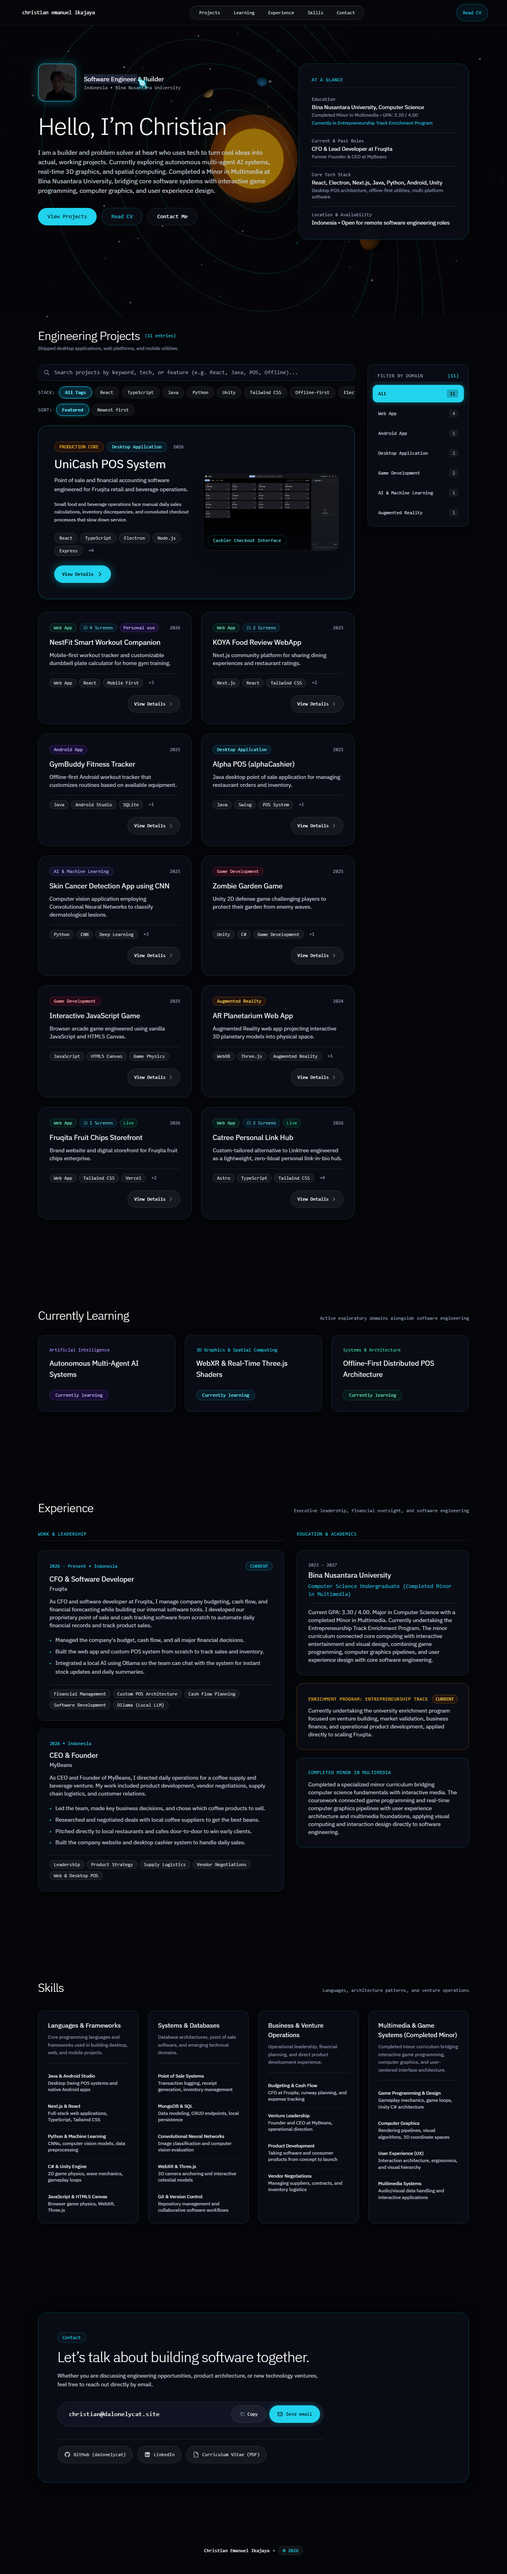
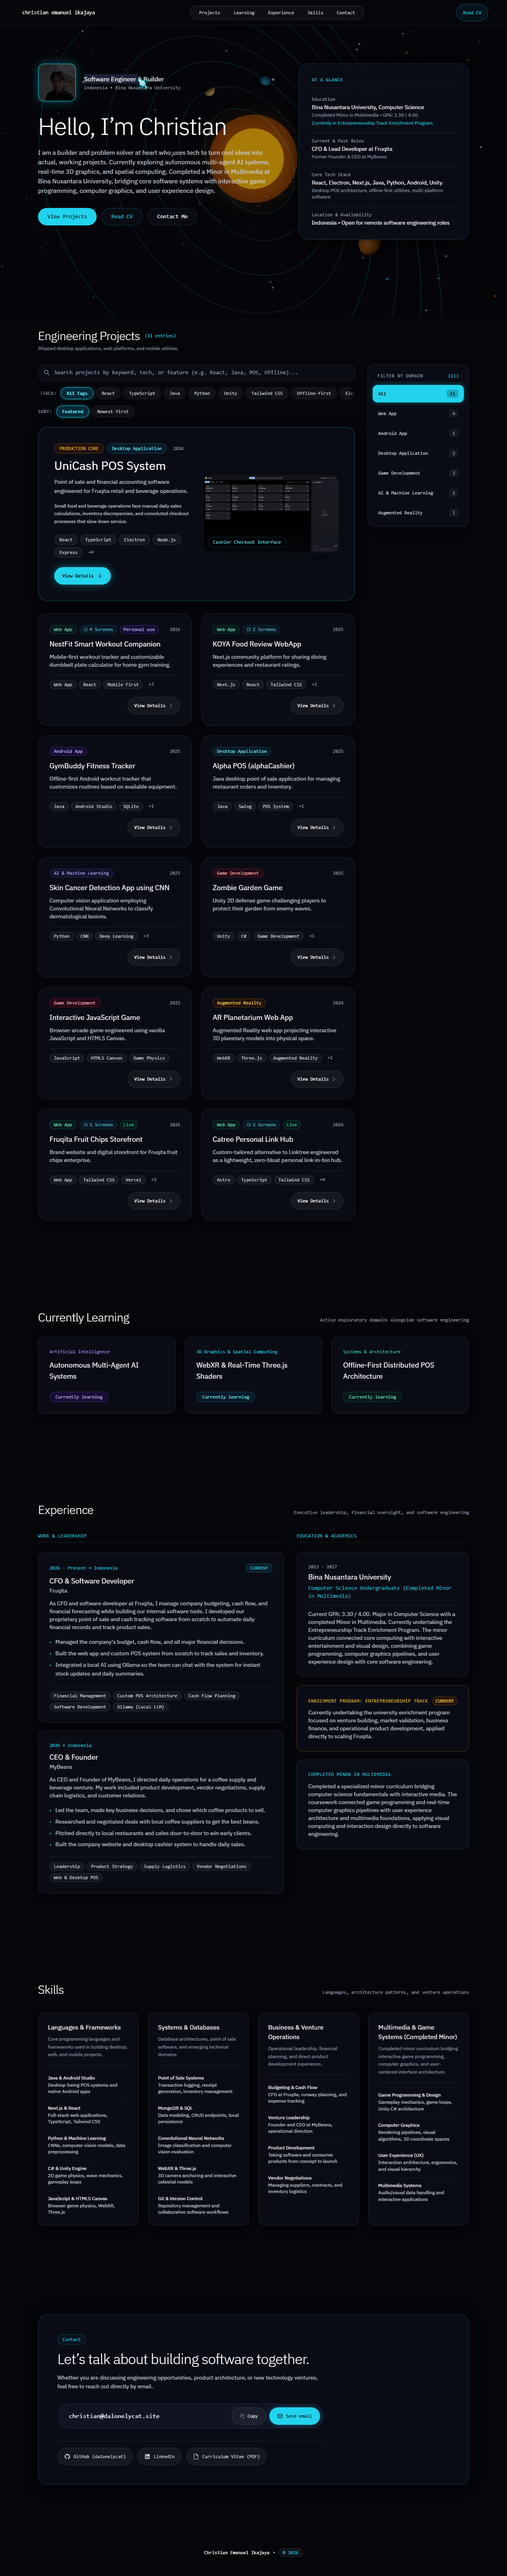
fix: hide horizontal tag scrollbar with edge fade masks and restore 3D solar system background

diff --git a/src/components/SolarSystemBackground.tsx b/src/components/SolarSystemBackground.tsx
@@ -47,9 +47,9 @@ export function SolarSystemBackground() {
     const scene = new THREE.Scene();
     const camera = new THREE.PerspectiveCamera(
       48,
-      window.innerWidth / window.innerHeight,
+      window.innerWidth / Math.max(window.innerHeight, 1),
       0.1,
-      250
+      1000
     );
 
     // Spherical Orbit Coordinates locked to the Sun at (0, 0, 0)
@@ -64,16 +64,21 @@ export function SolarSystemBackground() {
     );
     camera.lookAt(0, 0, 0);
 
-    const renderer = new THREE.WebGLRenderer({
-      alpha: true,
-      antialias: !isMobile,
-      powerPreference: "high-performance",
-    });
-
-    renderer.setSize(window.innerWidth, window.innerHeight);
-    renderer.setPixelRatio(Math.min(window.devicePixelRatio, isMobile ? 1 : 1.5));
-    renderer.setClearColor(0x000000, 0);
-    container.appendChild(renderer.domElement);
+    let renderer: THREE.WebGLRenderer;
+    try {
+      renderer = new THREE.WebGLRenderer({
+        alpha: true,
+        antialias: !isMobile,
+        powerPreference: "high-performance",
+      });
+      renderer.setSize(window.innerWidth, window.innerHeight);
+      renderer.setPixelRatio(Math.min(window.devicePixelRatio, isMobile ? 1 : 1.5));
+      renderer.setClearColor(0x000000, 0);
+      container.appendChild(renderer.domElement);
+    } catch (e) {
+      console.warn("WebGL initialization failed:", e);
+      return;
+    }
 
     // Disposables tracking for robust cleanup
     const disposables: { dispose: () => void }[] = [];
@@ -552,21 +557,24 @@ export function SolarSystemBackground() {
 
     // Animation Loop: Isometric planetary revolution with interactive orbiting camera
     let animationFrameId: number;
-    const clock = new THREE.Clock();
+    let lastTimestamp = performance.now();
+    let elapsed = 0;
 
     const animate = () => {
       animationFrameId = requestAnimationFrame(animate);
       if (!isVisible) return;
 
-      const delta = clock.getDelta();
-      const elapsed = clock.getElapsedTime();
+      const now = performance.now();
+      const delta = Math.min((now - lastTimestamp) / 1000, 0.1);
+      lastTimestamp = now;
+      elapsed += delta;
 
       // Update Starfield GPU Twinkling
       starShaderMat.uniforms.uTime.value = elapsed;
 
       // Update Camera Spherical Orbit (Camera strictly locked to orbiting the Sun at (0, 0, 0))
       targetLookAt.set(0, 0, 0);
-      currentLookAt.lerp(targetLookAt, delta * 3.0);
+      currentLookAt.lerp(targetLookAt, Math.min(1, delta * 3.0));
 
       if (!isDragging) {
         if (Math.abs(velocityTheta) > 0.00005 || Math.abs(velocityPhi) > 0.00005) {
@@ -583,7 +591,7 @@ export function SolarSystemBackground() {
       const targetCamY = orbitRadius * Math.cos(orbitPhi);
       const targetCamZ = orbitRadius * Math.sin(orbitPhi) * Math.cos(orbitTheta);
 
-      camera.position.lerp(tempTargetPos.set(targetCamX, targetCamY, targetCamZ), delta * 2.8);
+      camera.position.lerp(tempTargetPos.set(targetCamX, targetCamY, targetCamZ), Math.min(1, delta * 2.8));
       camera.lookAt(currentLookAt);
 
       // Starfield warp speed acceleration
@@ -698,12 +706,14 @@ export function SolarSystemBackground() {
       window.removeEventListener("rocket-hyperdrive-start", handleWarpStart);
       window.removeEventListener("rocket-hyperdrive-end", handleWarpEnd);
 
-      if (container && renderer.domElement) {
-        container.removeChild(renderer.domElement);
+      if (renderer) {
+        if (container && renderer.domElement && container.contains(renderer.domElement)) {
+          container.removeChild(renderer.domElement);
+        }
+        renderer.dispose();
       }
 
       disposables.forEach((item) => item.dispose());
-      renderer.dispose();
     };
   }, []);
 
@@ -712,8 +722,8 @@ export function SolarSystemBackground() {
       aria-hidden="true"
       className="fixed inset-0 pointer-events-none z-0 overflow-hidden no-print"
     >
-      {/* 3D Isometric Solar System Canvas (High visibility 90% opacity) */}
-      <div ref={containerRef} className="absolute inset-0 opacity-90" />
+      {/* 3D Isometric Solar System Canvas (High visibility 100% opacity) */}
+      <div ref={containerRef} className="absolute inset-0 opacity-100" />
 
       {/* Subtle depth vignette wash preserving text contrast without hiding 3D space */}
       <div className="absolute inset-0 bg-[#05060A]/35 pointer-events-none" />

diff --git a/src/lib/liteMode.ts b/src/lib/liteMode.ts
@@ -2,19 +2,14 @@
 
 import { useEffect, useState } from "react";
 
-interface NavigatorWithHints extends Navigator {
-  deviceMemory?: number;
-  connection?: { saveData?: boolean };
-}
-
 /**
  * Decides whether the heavy visuals (WebGL solar system and rocket plume canvas)
- * should be skipped. Conservative on purpose so normal laptops keep the full experience.
+ * should be skipped.
  *
- * Lite mode turns on for: reduced-motion preference, Data Saver, very low
- * memory (2 GB or less) or very few CPU cores (2 or less).
+ * Reduced-motion is handled natively inside SolarSystemBackground to keep the
+ * celestial visuals visible in a calm, static state rather than a blank screen.
  *
- * `?lite=1` forces it on and `?lite=0` forces it off, which is handy for testing.
+ * `?lite=1` forces lite mode on and `?lite=0` forces it off.
  */
 export function detectLiteMode(): boolean {
   if (typeof window === "undefined") return false;
@@ -23,19 +18,12 @@ export function detectLiteMode(): boolean {
   if (override === "1") return true;
   if (override === "0") return false;
 
-  if (window.matchMedia("(prefers-reduced-motion: reduce)").matches) return true;
-
-  const nav = navigator as NavigatorWithHints;
-  if (nav.connection?.saveData) return true;
-  if (typeof nav.deviceMemory === "number" && nav.deviceMemory <= 2) return true;
-  if (typeof nav.hardwareConcurrency === "number" && nav.hardwareConcurrency <= 2) return true;
-
   return false;
 }
 
-/** Returns null until the client has checked, so heavy scenes never mount and then unmount. */
-export function useLiteMode(): boolean | null {
-  const [lite, setLite] = useState<boolean | null>(null);
+/** Initializes to false so WebGL and space visuals mount immediately without blank delay. */
+export function useLiteMode(): boolean {
+  const [lite, setLite] = useState<boolean>(false);
 
   useEffect(() => {
     setLite(detectLiteMode());

diff --git a/src/app/globals.css b/src/app/globals.css
@@ -53,6 +53,7 @@ body {
 /* Deep space restrained scrollbar */
 ::-webkit-scrollbar {
   width: 6px;
+  height: 4px;
 }
 ::-webkit-scrollbar-track {
   background: #05060A;
@@ -63,6 +64,23 @@ body {
 }
 ::-webkit-scrollbar-thumb:hover {
   background: #00F0FF;
+}
+
+/* Cross-browser scrollbar suppression utility */
+.no-scrollbar::-webkit-scrollbar {
+  display: none !important;
+  width: 0 !important;
+  height: 0 !important;
+}
+.no-scrollbar {
+  -ms-overflow-style: none !important;
+  scrollbar-width: none !important;
+}
+
+/* Horizontal scroll edge fade mask for chip rails */
+.mask-edge-fade {
+  mask-image: linear-gradient(to right, transparent, black 16px, black calc(100% - 16px), transparent);
+  -webkit-mask-image: linear-gradient(to right, transparent, black 16px, black calc(100% - 16px), transparent);
 }
 
 /* GPU layer promotion for smooth scrolling over WebGL space canvas */
@@ -105,7 +123,7 @@ body {
   }
 }
 
-/* Lite mode: lightweight static starfield replaces the WebGL solar system */
+/* Lite mode: lightweight static starfield with central radiant solar aura */
 .static-starfield {
   position: fixed;
   inset: 0;
@@ -113,6 +131,7 @@ body {
   pointer-events: none;
   background-color: #05060d;
   background-image:
+    radial-gradient(circle at 50% 36%, rgba(255, 186, 8, 0.22), rgba(255, 107, 0, 0.08) 30%, transparent 62%),
     radial-gradient(1.5px 1.5px at 8% 14%, rgba(255, 255, 255, 0.9), transparent),
     radial-gradient(1px 1px at 17% 62%, rgba(255, 255, 255, 0.7), transparent),
     radial-gradient(1.5px 1.5px at 26% 33%, rgba(0, 240, 255, 0.8), transparent),

diff --git a/src/components/Projects.tsx b/src/components/Projects.tsx
@@ -128,9 +128,9 @@ export function Projects({ projects, categories }: ProjectsProps) {
               <div
                 role="group"
                 aria-label="Technology stack filters"
-                className="flex items-center gap-1.5 overflow-x-auto no-scrollbar py-0.5"
+                className="flex items-center gap-1.5 overflow-x-auto no-scrollbar py-1 mask-edge-fade"
               >
-                <span className="text-xs font-mono text-slate-400 uppercase tracking-wider shrink-0 mr-1">
+                <span className="text-xs font-mono text-slate-400 uppercase tracking-wider shrink-0 mr-1 pl-1">
                   Stack:
                 </span>
                 {POPULAR_TAGS.map((tag) => {

diff --git a/src/app/page.tsx b/src/app/page.tsx
@@ -27,8 +27,7 @@ const SolarSystemBackground = dynamic(
 export default function Home() {
   const [toastMessage, setToastMessage] = useState("");
   const [isToastOpen, setIsToastOpen] = useState(false);
-  // null until the client has checked, so WebGL scenes never mount then unmount.
-  // true on low-power devices or reduced-motion users (see lib/liteMode.ts).
+  // true only when forced via ?lite=1 URL query parameter (see lib/liteMode.ts).
   const lite = useLiteMode();
 
   const showToast = (message: string) => {
